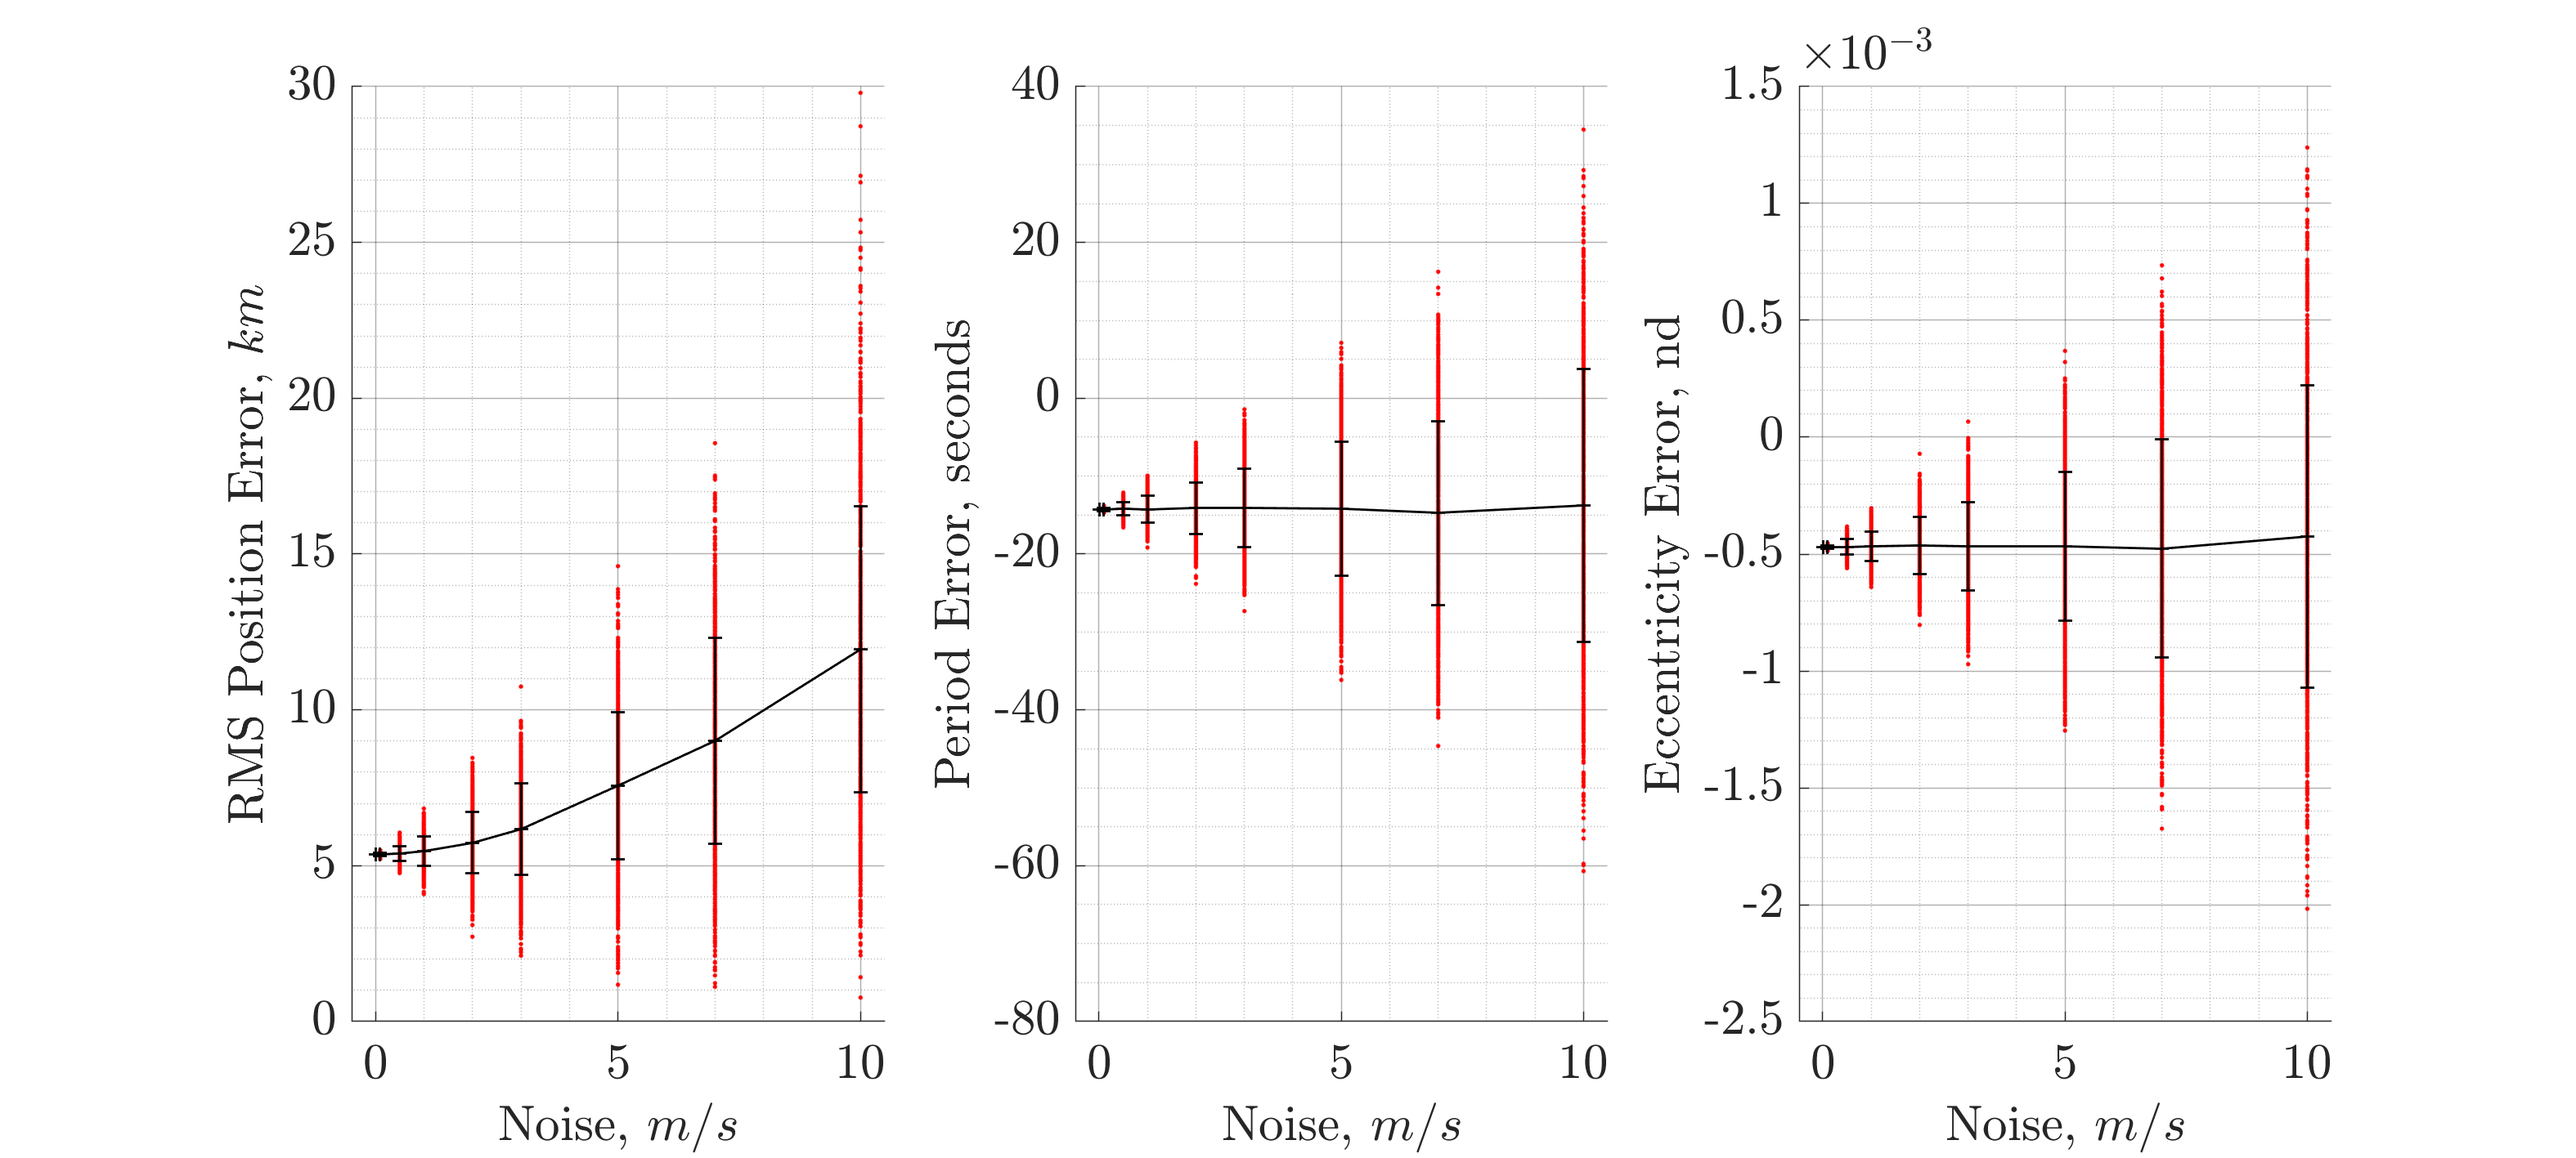
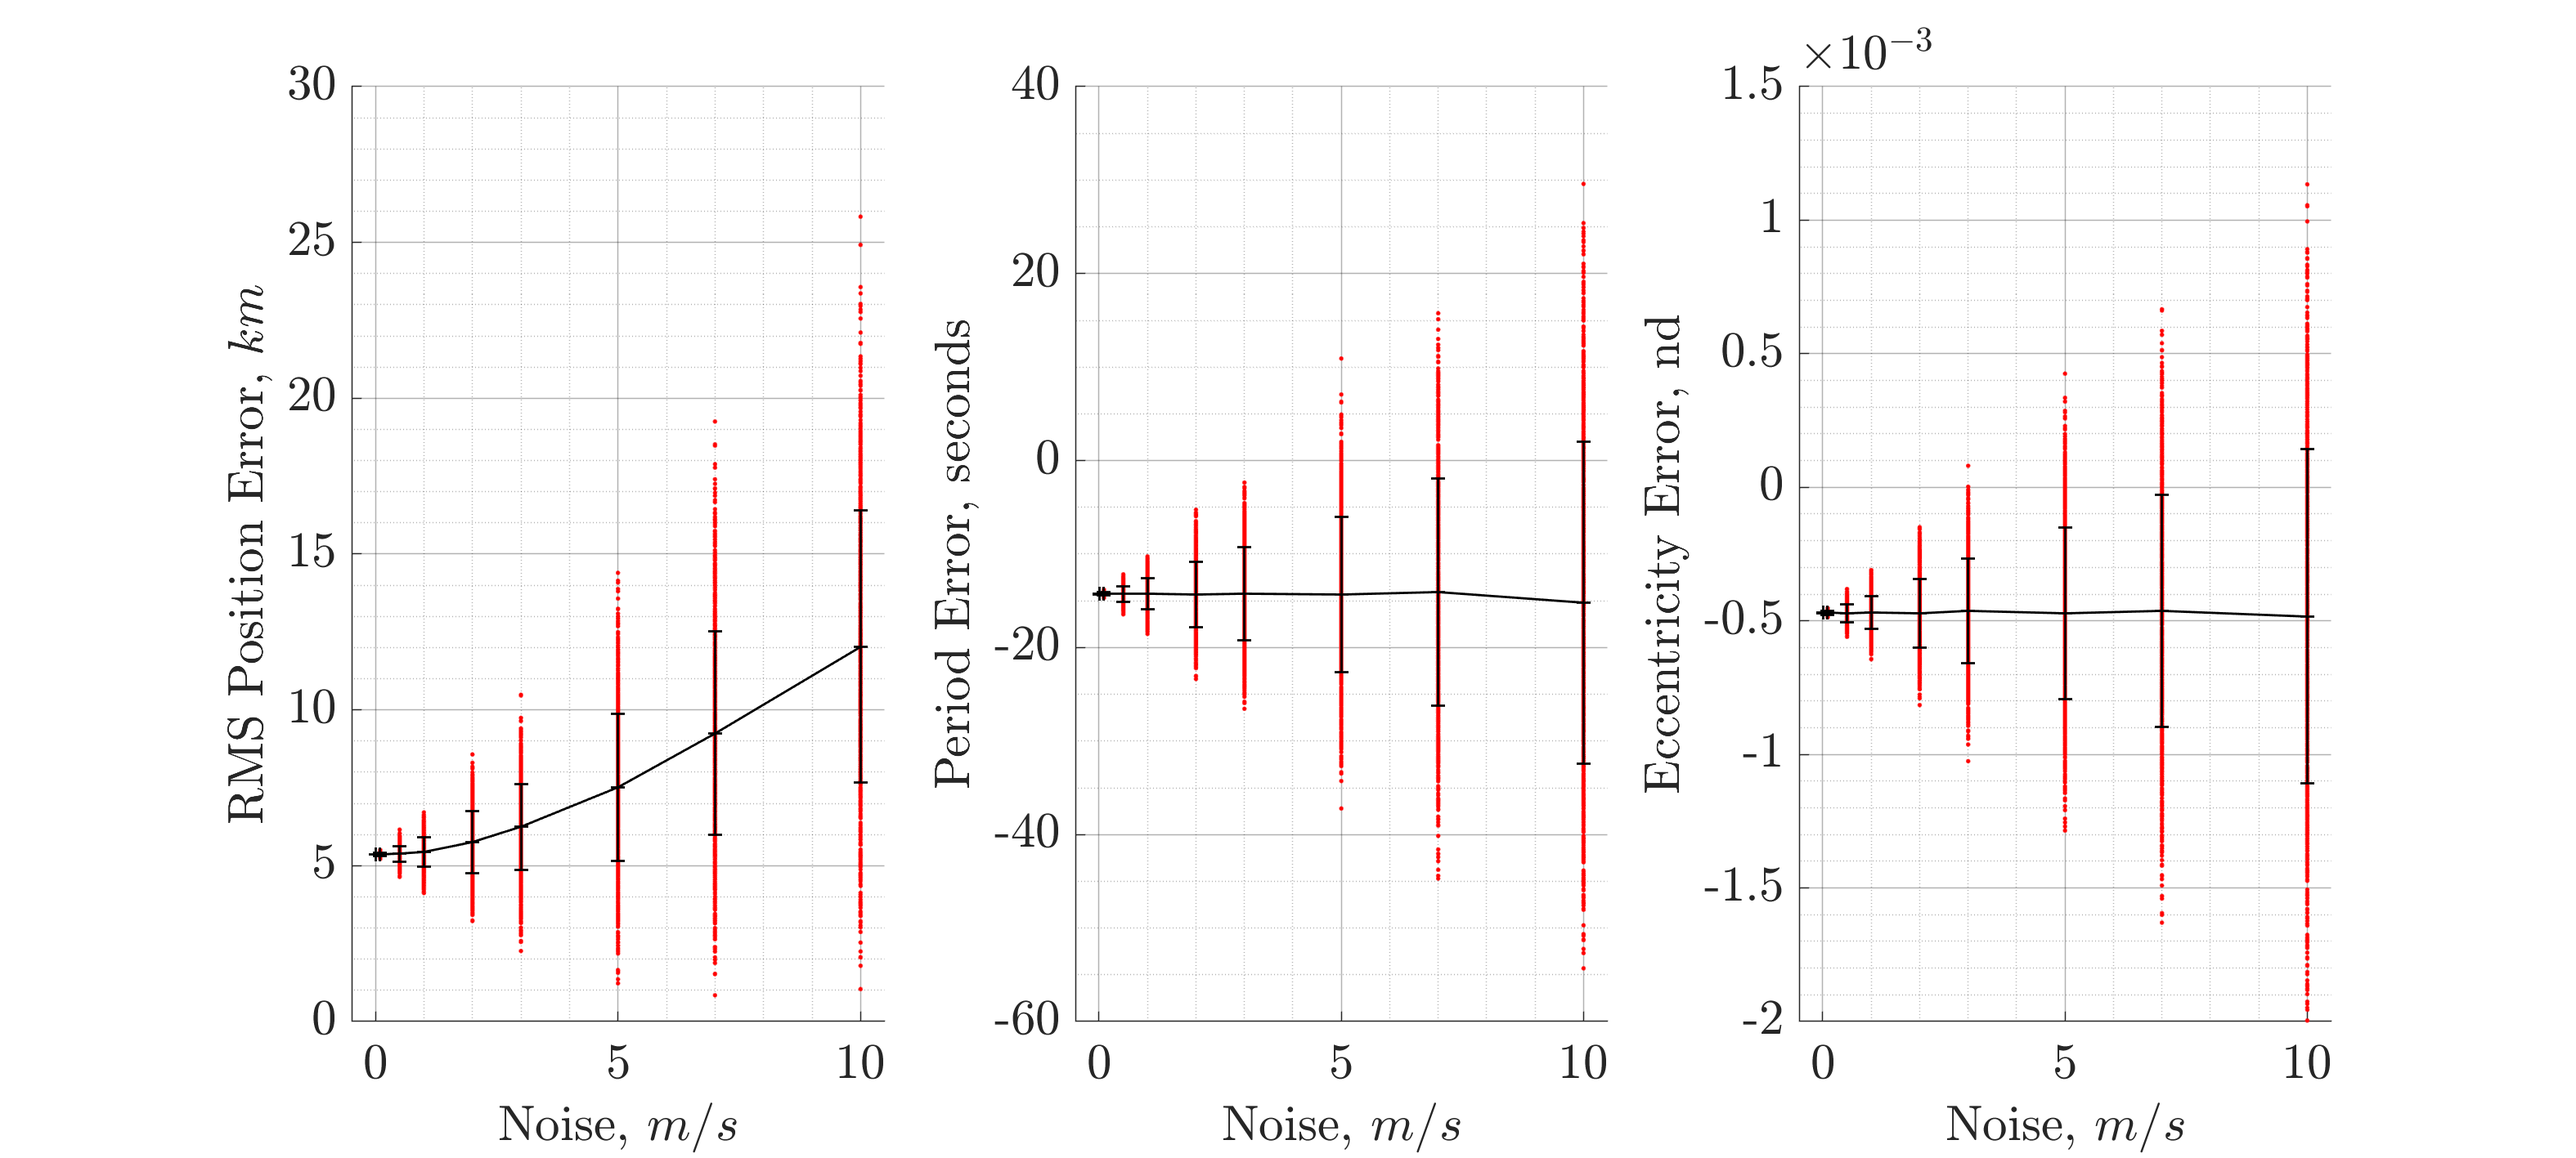
Update figures for VIOD

diff --git a/viod_dev/Misc Testing/range_rate/test_sine.m b/viod_dev/Misc Testing/range_rate/test_sine.m
@@ -4,7 +4,7 @@ clear;clc
 % define orbit
 mu = 1;
 a = 1;
-e = 0.6;
+e = 0.3;
 i = pi/5;
 omg = 3*pi/2;
 w = pi/3;
@@ -27,13 +27,14 @@ P = P ./ vecnorm(P,2,1);
 f = [ 0  40  80;... % pulsar 1
      10  50  90;... % pulsar 2
      20  60  100]; % pulsar 3
-f = f-40;
+f = f+40;
 f = deg2rad(f);
 E = 2 * atan(sqrt((1-e)/(1+e))*tan(f/2));
 M = E - e*sin(E);
 t_true = sqrt(a^3/mu)*M;
 
 t = t_true + t_offset;
+M_offset = t_offset / sqrt(a^3/mu);
 
 % perform observations
 r = nan(size(f,1),size(f,2),3);
@@ -70,7 +71,7 @@ hold off
 legend('Location','Best')
 
 % calculate perfect inputs
-OPT = [e,period,t_offset];
+OPT = [e,period,M_offset];
 
 % check if perfect input yields perfect output
 [optDiff,V] = rrFun_sine(OPT,obsv,pulsar,mu,t,'debug');
@@ -84,13 +85,13 @@ disp('Searching for initial guess...')
 
 warning('off','all')
 
-res = [20,20,100];
+res = [25,25,40];
 dat = nan(res);
-ee = linspace(0,0.9,res(1));
+ee = linspace(0,0.8,res(1));
 pmin = max(t(:))-min(t(:));
-pmax = 20 * 2*pi*mu/mean(obsv(:))^3;
+pmax = 2*pi*mu/mean(abs(obsv(:)))^3;
 pp = linspace(pmin,pmax,res(2));
-tt = linspace(0,pmax,res(3));
+tt = linspace(0,2*pi,res(3));
 
 E = nan(res(1),res(2),res(3));
 P = nan(res(1),res(2),res(3));
@@ -99,14 +100,8 @@ T = nan(res(1),res(2),res(3));
 for i = 1:res(1)
 for j = 1:res(2)
 for k = 1:res(3)
-    if tt(k) > pp(j)
-        % we don't care about redunrant guesses where the time since
-        % periapsis is greater than the period
-        dat(i,j,k) = Inf;
-    else
-        fin = [ee(i),pp(j),tt(k)];
-        dat(i,j,k) = norm(rrFun_sine(fin,obsv,pulsar,mu,t));
-    end
+    fin = [ee(i),pp(j),tt(k)];
+    dat(i,j,k) = norm(rrFun_sine(fin,obsv,pulsar,mu,t));
     E(i,j,k) = ee(i);
     P(i,j,k) = pp(j);
     T(i,j,k) = tt(k);
@@ -121,7 +116,7 @@ end
 %     filter = ones(edge,edge);
 %     dat = (convn(dat,filter,'same') + dat*edge^2) / edge^2;
 % --- version 2: gaussian blur
-    dat = imgaussfilt3(dat);
+%     dat = imgaussfilt3(dat);
 
 [~,idx] = min(dat(:));
 [i,j,k] = ind2sub(size(dat),idx);
@@ -133,7 +128,7 @@ Emesh = E(:);
 Pmesh = P(:);
 Tmesh = T(:);
 D = dat(:);
-cutoff = 600;
+cutoff = min(D)*10;
 Emesh = Emesh(D<cutoff);
 Pmesh = Pmesh(D<cutoff);
 Tmesh = Tmesh(D<cutoff);
@@ -158,11 +153,14 @@ disp('Searching for solution...')
 
 f1 = f0;
 
+% fun = @(x) norm(rrFun_sine(x,obsv,pulsar,mu,t));
+% options = optimoptions('fmincon','Display','iter' ...
+%                                 ,'MaxFunctionEvaluations',2000 ...
+%                                 ,'MaxIterations',300);
+% f1 = fmincon(fun,f0,-eye(3),[0;0;0],[],[],[],[],[],options);
+
 fun = @(x) norm(rrFun_sine(x,obsv,pulsar,mu,t));
-options = optimoptions('fmincon','Display','iter' ...
-                                ,'MaxFunctionEvaluations',2000 ...
-                                ,'MaxIterations',300);
-f1 = fmincon(fun,f0,-eye(3),[0;0;0],[],[],[],[],[],options);
+f1 = fminsearch(fun,f0);
 
 fun = @(x) rrFun_sine(x,obsv,pulsar,mu,t);
 options = optimoptions('fsolve','Display','iter' ...

diff --git a/viod_dev/Misc Testing/range_rate/rrFun_sine.m b/viod_dev/Misc Testing/range_rate/rrFun_sine.m
@@ -30,14 +30,13 @@ function [optDiff,V,optOut] = rrFun_sine(OPT,obsv,pulsar,mu,time,debug)
 % take data from optimization variables
 g_e = OPT(1); % eccentricity
 g_period = OPT(2); % period
-g_timepe = OPT(3); % time since periapsis
+g_Moffset = OPT(3); % time since periapsis
 
 % get number of pulsars
 M = size(pulsar,2);
 
 % convert time of flight to true anomaly
-g_tpArray = time - g_timepe;
-g_M = mod( g_tpArray/g_period*2*pi, 2*pi );
+g_M = mod( time/g_period*2*pi-g_Moffset, 2*pi );
 g_E = kepler(g_M,g_e);
 if g_e < 1, g_f = 2 * atan( tan(g_E/2) * sqrt((1+g_e)/(1-g_e)) );
 else,       g_f = 2 * atan(tanh(g_E/2) * sqrt((g_e+1)/(g_e-1)) ); end
@@ -166,6 +165,21 @@ R = sqrt(x(1)^2 + x(2)^2 - x(3));
 C = T' * [x(1); x(2); 0];
 % find residual
 residual = norm(A*x-B);
+% add radius error to residual
+g_sma = ((g_period/2/pi)^2*mu)^(1/3);
+g_R = (sqrt(mu*(1+g_e)/g_sma/(1-g_e))+sqrt(mu*(1-g_e)/g_sma/(1+g_e)))/2;
+residual = residual + (R-g_R)^2;
+
+% % circle fitting with known radius
+% g_sma = ((g_period/2/pi)^2*mu)^(1/3);
+% R = ( sqrt(mu*(1+g_e)/g_sma/(1-g_e)) + sqrt(mu*(1-g_e)/g_sma/(1+g_e)) )/2;
+% A = hodo2D';
+% A(:,3) = [];
+% fun = @(x) norm(vecnorm(A-x,2,2).^2-R^2);
+% options = optimoptions('fminunc','Display','none');
+% C = fminunc(fun,mean(A),options);
+% residual = fun(C) / 1000;
+% C = T' * [C,0]';
 
 if exist('debug','var')
     figure(11)
@@ -198,12 +212,12 @@ optDiff = [e,period,residual+fVal] - [g_e,g_period,0];
 weight = [5 1 2];
 scale = 100;
 optDiff = optDiff .* weight / norm(weight) * scale;
-optOut  = [e,period,g_timepe];
+optOut  = [e,period,g_Moffset];
 
 % if the time since periapse is out of bounds (i.e. < 0 or > period)
 % then we add a penalty for being a periodic solution that is out of range
-if mod(g_timepe,g_period) ~= g_timepe
-    optDiff = optDiff * (abs(mod(g_timepe,g_period)-g_timepe)/g_period+1);
+if mod(g_Moffset,2*pi) ~= g_Moffset
+    optDiff = optDiff * (abs(mod(g_Moffset,2*pi)-g_Moffset)/2/pi+1);
 end
 
 end

diff --git a/viod_gmat/scripts_matlab/monteScatter_compare.m b/viod_gmat/scripts_matlab/monteScatter_compare.m
@@ -41,7 +41,7 @@ for i = 1:itr
     
     v_noisy = addnoise(v,noise,bias);
     
-    rEst_1 = viod(v_noisy, mu);
+    rEst_1 = hodo_od(v_noisy, mu);
     rEst_2 = hodoWgt(v_noisy,mu);
     
     r2_1 = rRef(idx,:) - rEst_1(idx,:);
@@ -60,7 +60,7 @@ hold off
 axis equal
 xlabel('$\delta_x, km$')
 ylabel('$\delta_y, km$')
-legend('VIOD','HodoWgt')
+legend('HODO','HodoWgt')
 
 subplot(1,3,2)
 hold on
@@ -70,7 +70,7 @@ hold off
 axis equal
 xlabel('$\delta_x, km$')
 ylabel('$\delta_z, km$')
-legend('VIOD','HodoWgt')
+legend('HODO','HodoWgt')
 
 subplot(1,3,3)
 hold on
@@ -80,7 +80,7 @@ hold off
 axis equal
 xlabel('$\delta_y, km$')
 ylabel('$\delta_z, km$')
-legend('VIOD','HodoWgt')
+legend('HODO','HodoWgt')
 
 end
 

diff --git a/viod_gmat/scripts_matlab/var_ecc.m b/viod_gmat/scripts_matlab/var_ecc.m
@@ -41,7 +41,7 @@ if nargin == 7
     return;
     
 %% data plotting mode
-else
+elseif nargin == 0
     
     ecc_vect = ecc_mat(1,:);
     
@@ -89,6 +89,9 @@ else
     
     % clean up persistent variables
     clear rms period ecc ecc_mat
+    
+else
+    error('Incorrect number of arguments.')
 
 end
 

diff --git a/viod_gmat/od/hodoWgt.m b/viod_gmat/od/hodoWgt.m
@@ -50,10 +50,10 @@ N2d = (T * N')'; % [1] eqn.3
 % construct linear system [1] eqn.9
 A = 2*N2d;
 A(:,3) = -1;
-A = A .* vecnorm(N,2,2);
+A = A .* vecnorm(N,2,2).^6;
 B = N2d.^2;
 B = sum(B(:,1:2),2);
-B = B .* vecnorm(N,2,2);
+B = B .* vecnorm(N,2,2).^6;
 x = A\B;
 
 % find radius of hodograph
